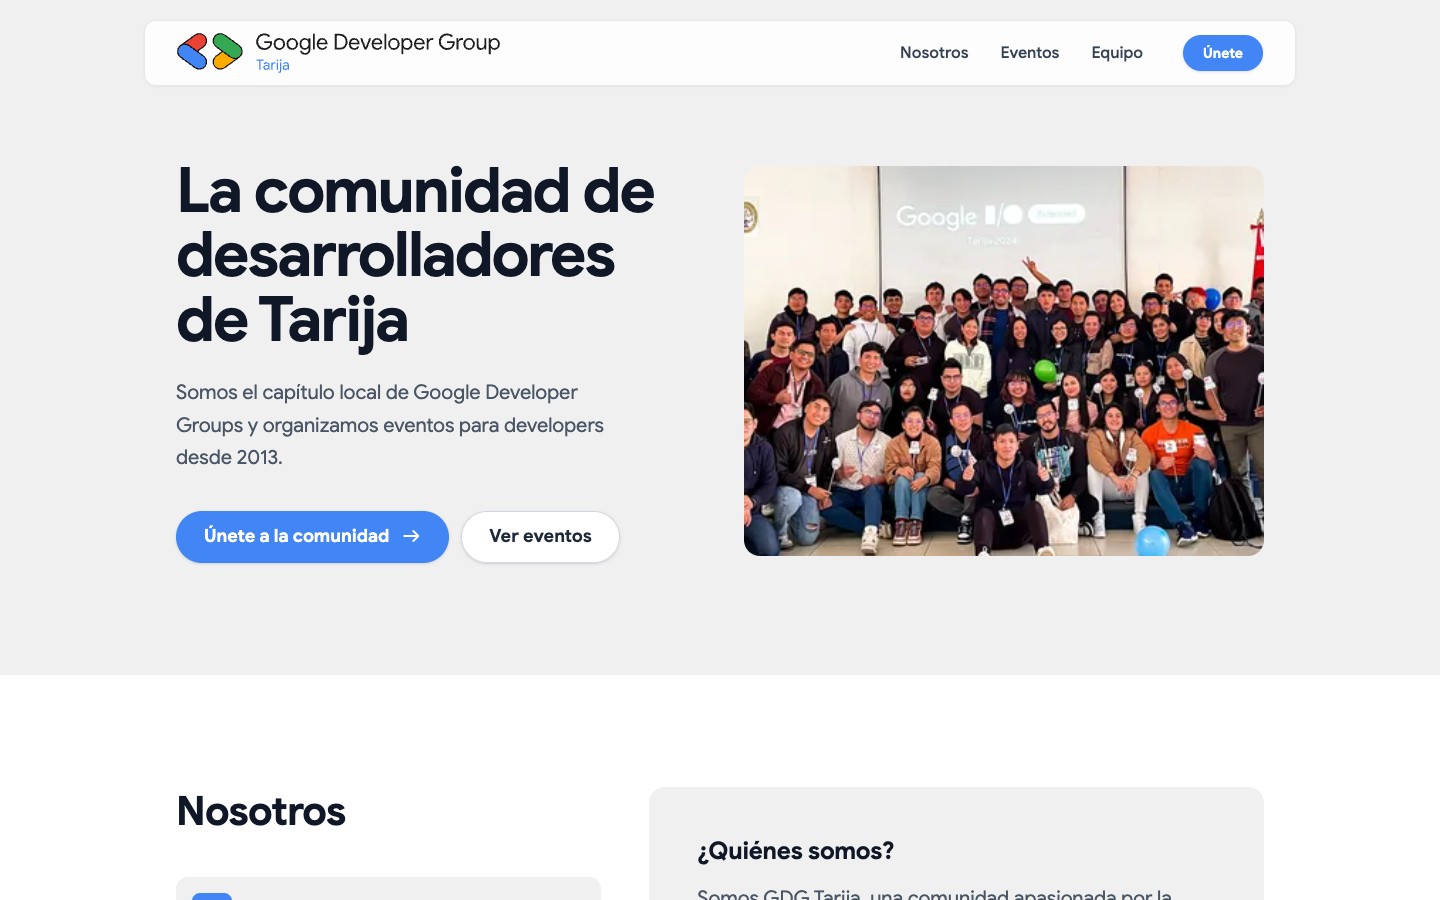
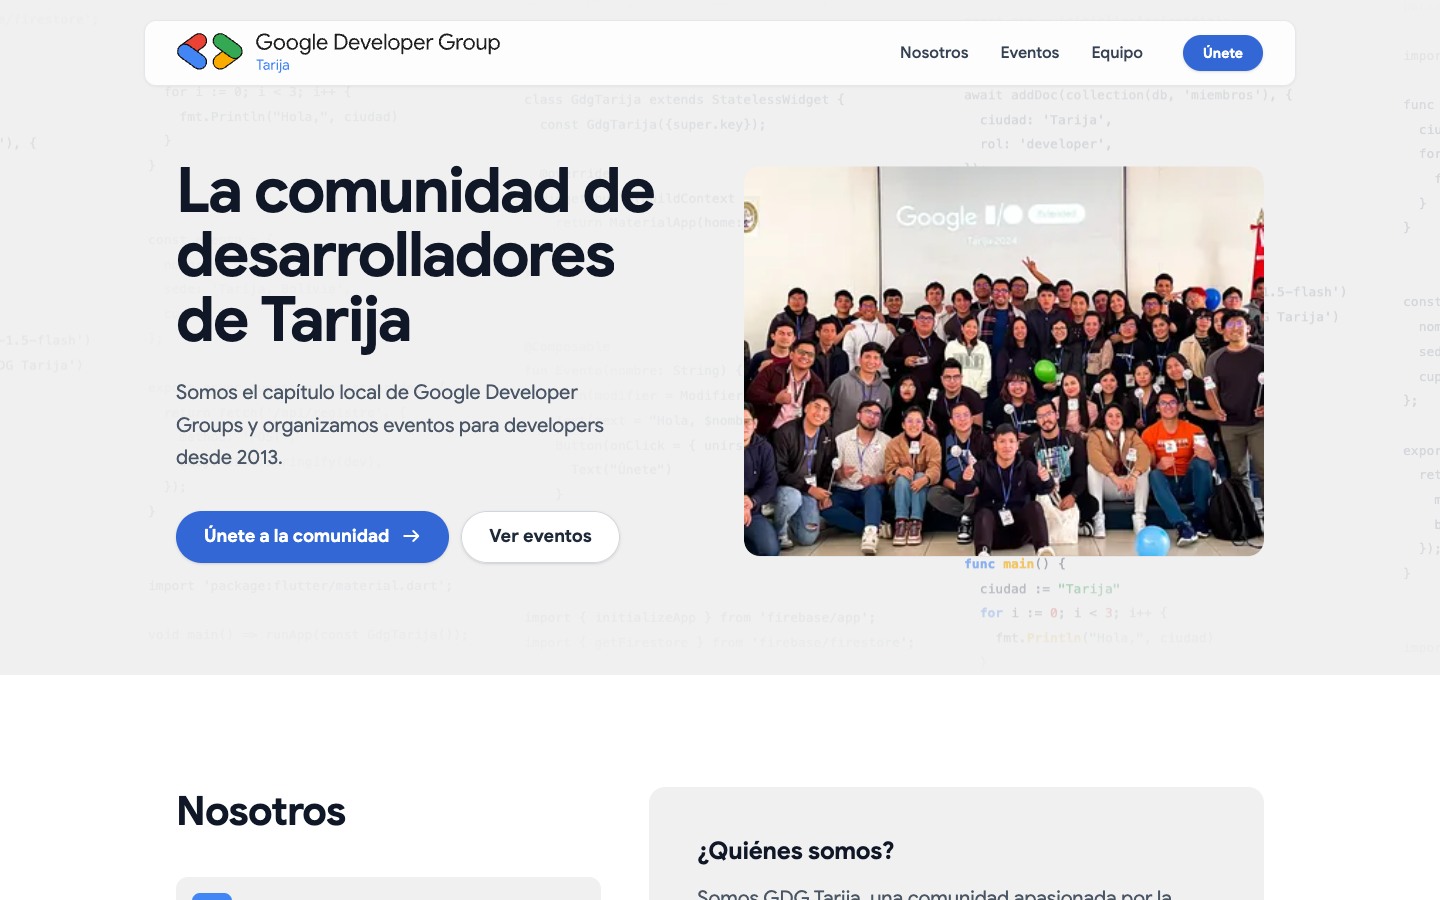
fix(a11y): improve color contrast for interactive blue elements
- Replace gdg-blue with gdg-blue-deep on primary buttons and links
  to satisfy WCAG AA contrast (>= 4.5:1) against white backgrounds.
- Add gdg-blue-press for hover and active button states.
- Increase counter contrast from gray-500 to gray-600.
- Set scroll-padding-top and reduced-motion support in global CSS.

diff --git a/src/styles/global.css b/src/styles/global.css
@@ -9,6 +9,7 @@
   --color-gdg-yellow: #f9ab00;
   --color-gdg-blue: #4285f4;
   --color-gdg-blue-deep: #3367d6;
+  --color-gdg-blue-press: #2851b8;
   --color-gdg-green: #34a853;
   --color-gdg-black: #1e1e1e;
   --color-gdg-off-white: #f0f0f0;
@@ -87,6 +88,14 @@ body {
 
 html {
   scroll-behavior: smooth;
+  /* La navbar es fija: sin esto, anclas y elementos enfocados con teclado quedan escondidos debajo */
+  scroll-padding-top: 7rem;
+}
+
+@media (prefers-reduced-motion: reduce) {
+  html {
+    scroll-behavior: auto;
+  }
 }
 
 ::selection {

diff --git a/DESIGN.md b/DESIGN.md
@@ -4,6 +4,7 @@ description: Sitio oficial de Google Developer Group Tarija, vitrina y puerta de
 colors:
   gdg-blue: '#4285f4'
   gdg-blue-deep: '#3367d6'
+  gdg-blue-press: '#2851b8'
   gdg-red: '#ea4335'
   gdg-yellow: '#f9ab00'
   gdg-green: '#34a853'
@@ -76,13 +77,13 @@ spacing:
   section-lg: '112px'
 components:
   button-primary:
-    backgroundColor: '{colors.gdg-blue}'
+    backgroundColor: '{colors.gdg-blue-deep}'
     textColor: '{colors.surface}'
     typography: '{typography.label}'
     rounded: '{rounded.full}'
     padding: '12px 28px'
   button-primary-hover:
-    backgroundColor: '{colors.gdg-blue-deep}'
+    backgroundColor: '{colors.gdg-blue-press}'
     textColor: '{colors.surface}'
   button-outline:
     backgroundColor: '{colors.surface}'
@@ -167,8 +168,9 @@ Una base neutra clara con los cuatro colores de Google como señales y una famil
 
 ### Primary
 
-- **Azul Google** (`gdg-blue`): el color de la acción. Botones primarios, enlaces con flecha y el acento de cualquier llamada a la acción.
-- **Azul Google Profundo** (`gdg-blue-deep`): hover del azul primario y fondo del bloque CTA de cierre (el blanco sobre este azul pasa 4.5:1; sobre `gdg-blue` no).
+- **Azul Google** (`gdg-blue`): el azul de marca para señales no textuales: puntos, anillos de foco, íconos y el resaltado del código. No lleva texto blanco encima (3.56:1) ni se usa como color de texto.
+- **Azul Google Profundo** (`gdg-blue-deep`): el color de la acción. Fondo de botones primarios (blanco encima: 5.2:1), texto de enlaces y "Ver perfil", y fondo del bloque CTA de cierre.
+- **Azul Presionado** (`gdg-blue-press`): hover y presionado de botones y enlaces azules.
 
 ### Secondary
 
@@ -198,7 +200,7 @@ Una base neutra clara con los cuatro colores de Google como señales y una famil
 
 **The Signal Rule.** Un color de Google aparece solo donde señala algo: una acción, una comisión, un pilar. Si un acento no señala nada, sobra.
 
-**The Blue Means Go Rule.** En el sitio principal, la acción principal siempre es Azul Google. Ningún otro color compite por ese rol.
+**The Blue Means Go Rule.** En el sitio principal, la acción principal siempre es azul (Azul Google Profundo, por contraste). Ningún otro color compite por ese rol.
 
 **The No-Gradient Rule.** El sitio principal no usa degradados en fondos, contenedores ni texto. El color es plano; los degradados y glows son un recurso exclusivo de los temas de evento.
 
@@ -267,8 +269,8 @@ Las fotos van en grillas rectas: sin marco, sin inclinación, sin superposición
 Una píldora que cambia de tono y se levanta 2px al hover (`src/components/common/Button.astro`).
 
 - **Shape:** píldora completa (`rounded-full`), texto sin cortes (`whitespace-nowrap`).
-- **Primary:** fondo Azul Google, texto blanco, semibold. Tamaños `sm` (8px 20px), `md` (12px 28px) y `lg` (16px 32px).
-- **Hover / Focus:** fondo Azul Google Profundo, lift de 2px y `shadow-md`; presionado baja a `scale(0.97)`. Foco visible solo con teclado: anillo azul de 2px con offset de 2px.
+- **Primary:** fondo Azul Google Profundo, texto blanco, semibold. Tamaños `sm` (8px 20px), `md` (12px 28px) y `lg` (16px 32px).
+- **Hover / Focus:** fondo Azul Presionado, lift de 2px y `shadow-md`; presionado baja a `scale(0.97)`. Foco visible solo con teclado: anillo azul de 2px con offset de 2px.
 - **Outline:** fondo blanco con anillo interno de 1px gris; es el secundario sobre fondos grises ("Ver eventos", "Ver todos").
 - **Inverse:** fondo blanco con texto Azul Google Profundo; solo sobre el bloque CTA azul. Hover en Azul Hielo.
 - **Secondary:** fondo `hairline`, texto `ink`; solo sobre fondo blanco.
@@ -276,7 +278,7 @@ Una píldora que cambia de tono y se levanta 2px al hover (`src/components/commo
 
 ### Links con flecha
 
-`ArrowLink.astro`: texto semibold en Azul Google con una flecha que se desplaza 2px al hover. Si el enlace sale del sitio, la flecha es de "abrir afuera". Es la acción secundaria de los encabezados de sección.
+`ArrowLink.astro`: texto semibold en Azul Google Profundo con una flecha que se desplaza 2px al hover. Si el enlace sale del sitio, la flecha es de "abrir afuera". Es la acción secundaria de los encabezados de sección.
 
 ### Chips
 
@@ -350,7 +352,7 @@ Anillo que gira con un color de Google por lado alrededor del logo de GDG Tarija
 ### Do:
 
 - **Do** armar cada sección nueva con `Section.astro` y `SectionHeading.astro`, sobre fondo claro.
-- **Do** usar Azul Google para la acción principal y Azul Google Profundo para su hover.
+- **Do** usar Azul Google Profundo para acciones y texto azul, y Azul Presionado para su hover; texto y metadatos siempre ≥ 4.5:1.
 - **Do** usar píldoras para botones, 12px para cards y fotos, y bordes de 1px.
 - **Do** mostrar fotos reales en grillas rectas, alineadas al contenedor.
 - **Do** escribir un título, una frase y una acción; decir "developers".
